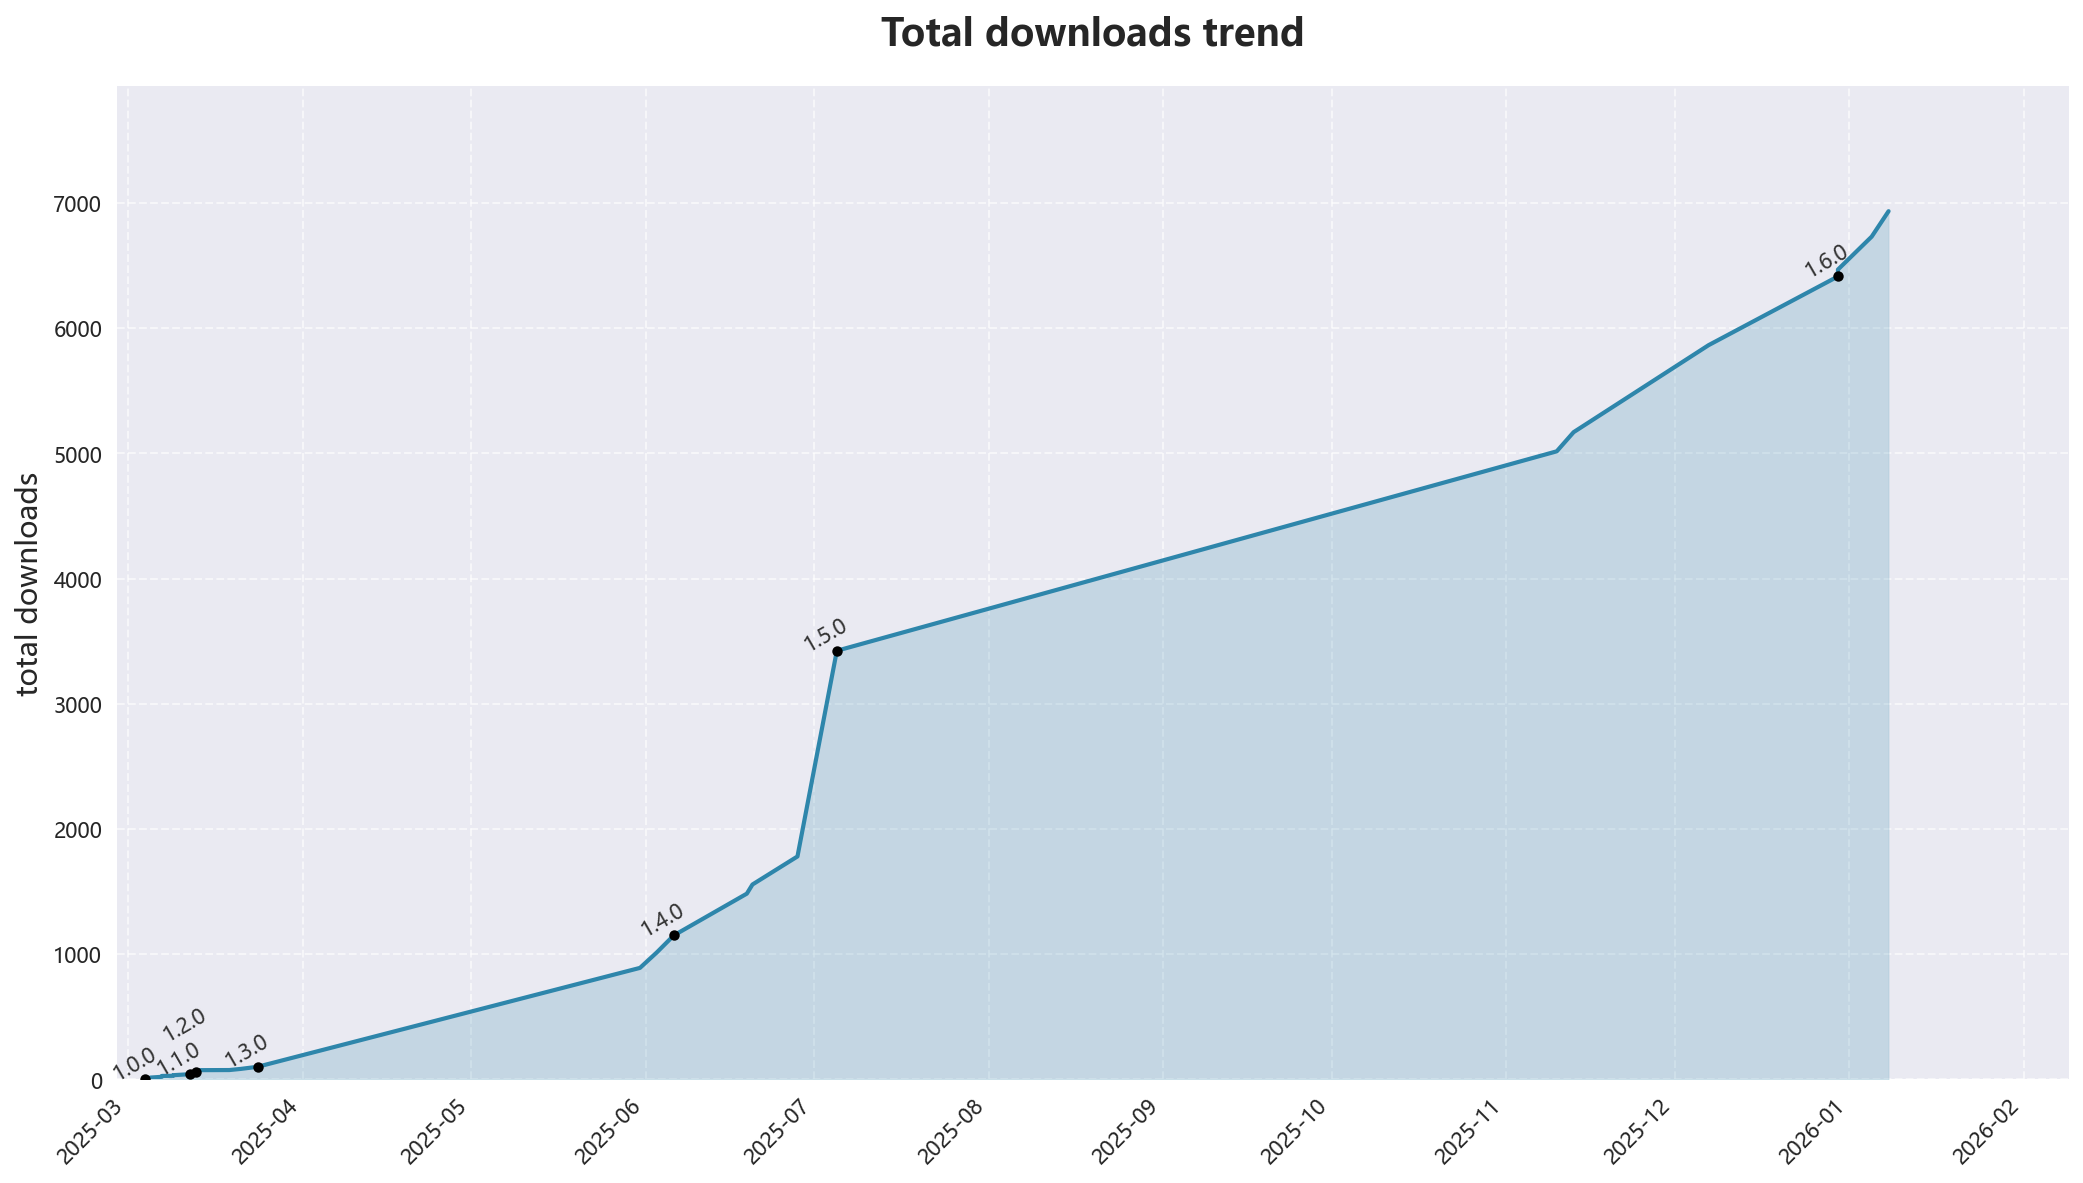
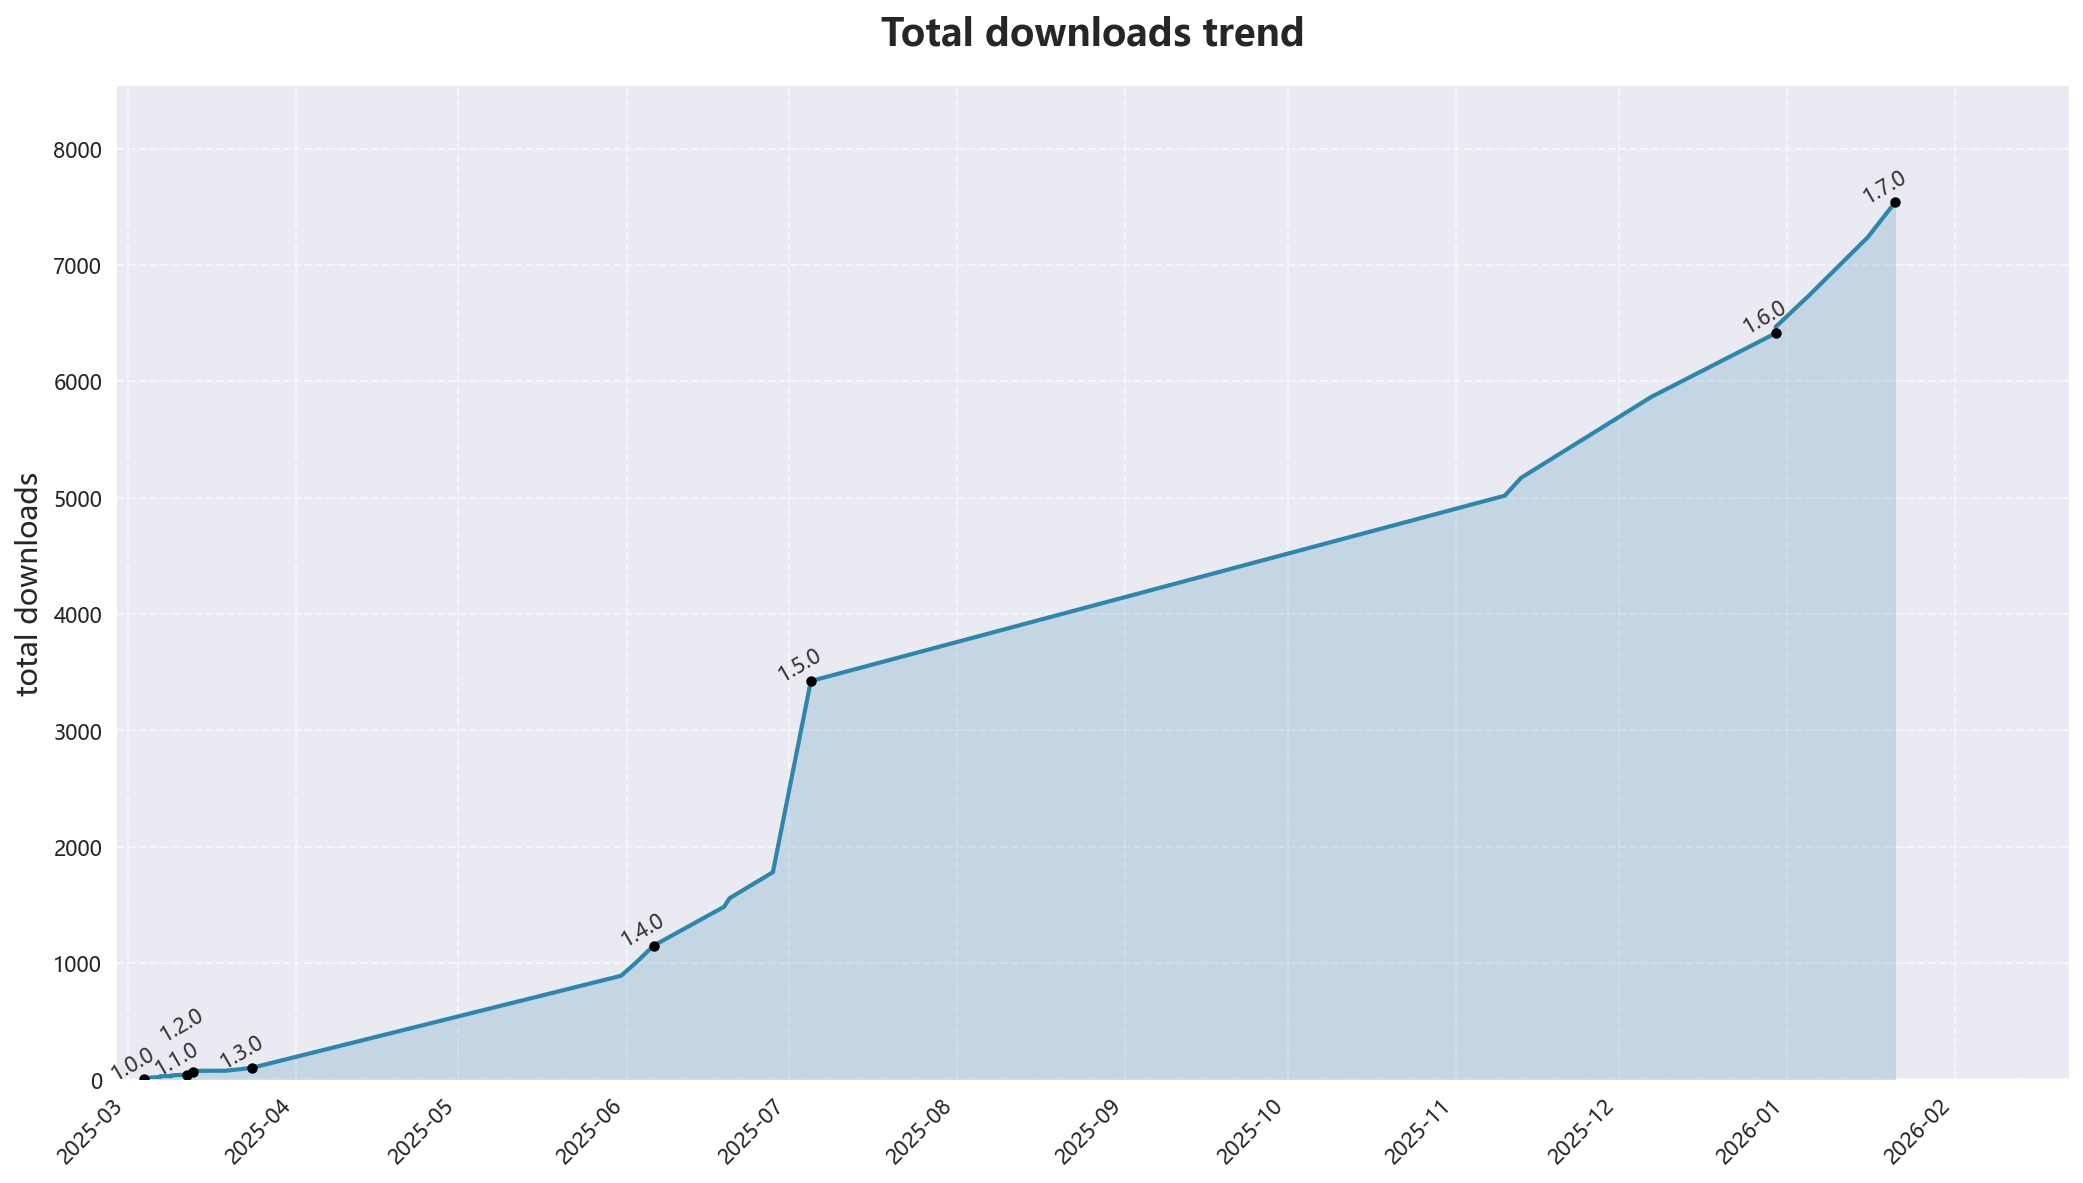
Update images

diff --git a/miscellaneous/downloads-Trend.py b/miscellaneous/downloads-Trend.py
@@ -44,7 +44,9 @@ data = [
     ("2025-12-07", 549, "1.5.3"),
     ("2025-12-30", 55, "1.6.0"),
     ("2025-12-30", 263, "1.6.1"),
-    ("2026-01-05", 203, "1.6.2"),
+    ("2026-01-05", 508, "1.6.2"),
+    ("2026-01-16", 298, "1.6.3"),
+    ("2026-01-21", 0, "1.7.0")
 ]
 
 # --- [修改 1] 动态获取当前日期并追加到数据末尾 ---
